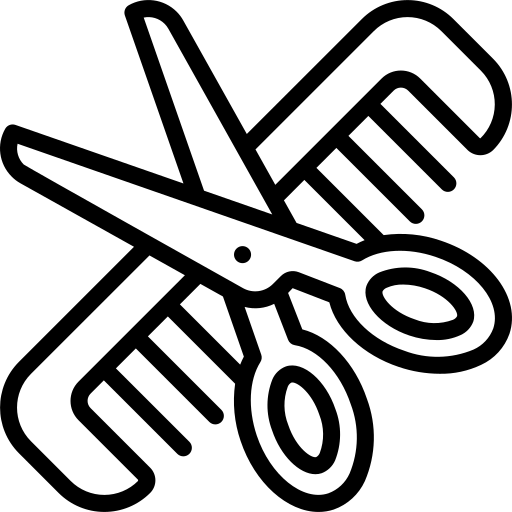
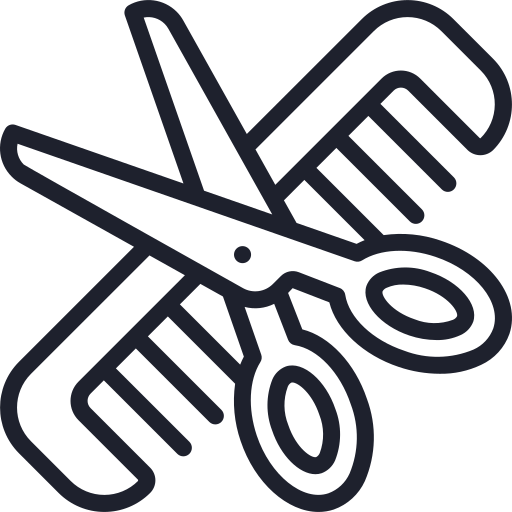
Iconos en el menú de admin y icono clientes en la vista de la Agenda.

Changed region(s): [[0.0, 0.0, 1.0, 1.0]]

diff --git a/src/main/resources/org/example/perruqueria/perruqueriadreams/Styles/main.css b/src/main/resources/org/example/perruqueria/perruqueriadreams/Styles/main.css
@@ -53,6 +53,10 @@
     -fx-border-color: black;
 }
 
+.textoIconos {
+    -fx-font-size: 17px;
+}
+
 .botones {
     -fx-background-color: rgb(189, 202, 192);
     -fx-border-color: rgb(155, 171, 162);

diff --git a/src/main/java/org/example/perruqueria/perruqueriadreams/Controllers/ControladorAgenda.java b/src/main/java/org/example/perruqueria/perruqueriadreams/Controllers/ControladorAgenda.java
@@ -36,7 +36,7 @@ public class ControladorAgenda implements Initializable {
     @FXML private ImageView anteriorDia;
     @FXML private ImageView iconoLogin;
     @FXML private ImageView iconoCerrarSesion;
-    @FXML private Button btnClientes;
+    @FXML private VBox iconoClientes;
 
     public HashMap<String, String> getAgendaMap() {
         return agendaMap;
@@ -174,7 +174,7 @@ public class ControladorAgenda implements Initializable {
             anteriorDia.setOnMouseClicked((MouseEvent event) -> {
                 calendario.setValue(calendario.getValue().minusDays(1));
             });
-            btnClientes.setOnAction(event -> {
+            iconoClientes.setOnMouseClicked((MouseEvent event) -> {
                 vista.redirigir("Clientes");
             });
             generarAgenda(); //La generamos cuando se haya cargado la vista
